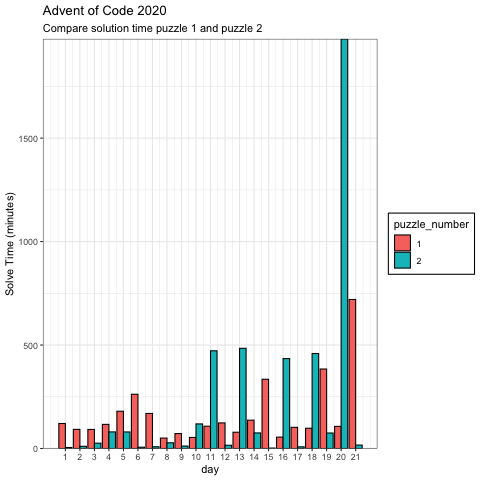
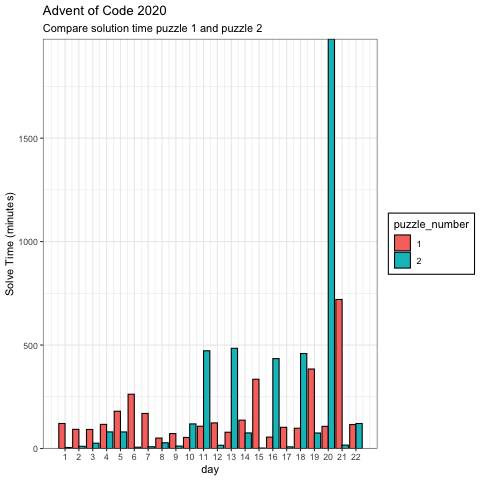
day 22

Changed region(s): [[0.125, 0.0625, 0.7812, 0.9688]]

diff --git a/day22/day_22.go b/day22/day_22.go
@@ -1,0 +1,183 @@
+package main
+
+import (
+	"bufio"
+	"fmt"
+	"os"
+	"reflect"
+	"strconv"
+	"strings"
+)
+
+type Game struct {
+	p1, p2 []int
+}
+
+// getCardLists reads lines from a file scanner and returns two lists with card
+// numbers, one for each player.
+func getCardLists(s *bufio.Scanner) ([]int, []int) {
+	player1 := true // put number in p1 or p2
+	p1 := []int{}   // save p1 deck
+	p2 := []int{}   // save p2 deck
+	for s.Scan() {
+		r := strings.Trim(s.Text(), "\n")
+
+		// Switch putting cards into p1 deck into p2 deck
+		if r == "Player 2:" {
+			player1 = false
+		}
+		// If we can convert a line to a number, we put it in a deck.
+		if n, err := strconv.Atoi(r); err == nil {
+			if player1 {
+				p1 = append(p1, n)
+			} else {
+				p2 = append(p2, n)
+			}
+		}
+	}
+
+	if err := s.Err(); err != nil {
+		panic(err)
+	}
+
+	return p1, p2
+}
+
+// calcWinningScore, given two lists, calculates the score of the winner
+func calcWinningScore(p1, p2 []int) int {
+	// Put winning list in winner
+	var winner []int
+	if len(p1) > len(p2) {
+		winner = p1
+	} else {
+		winner = p2
+	}
+
+	// Calculate winning score, scale is decreasing.
+	sum := 0
+	scale := len(winner)
+	for _, w := range winner {
+		sum += w * scale
+		scale--
+	}
+
+	return sum
+
+}
+
+func playGame(s *bufio.Scanner) int {
+	// Load card decks
+	p1Cards, p2Cards := getCardLists(s)
+
+	// play until 1 deck is empty
+	for {
+
+		// handle cases one player wins
+		if p1Cards[0] > p2Cards[0] {
+			p1Cards = append(p1Cards, p1Cards[0], p2Cards[0])
+			// remove played cards from front of the decks
+			p1Cards = p1Cards[1:]
+			p2Cards = p2Cards[1:]
+		} else {
+			p2Cards = append(p2Cards, p2Cards[0], p1Cards[0])
+			// remove played cards from front of the decks
+			p2Cards = p2Cards[1:]
+			p1Cards = p1Cards[1:]
+		}
+
+		// escape if one deck is empty
+		if len(p1Cards) == 0 || len(p2Cards) == 0 {
+			break
+		}
+	}
+
+	return calcWinningScore(p1Cards, p2Cards)
+}
+
+// gamePlayed checks in mem(ory) if a game is already played
+func gamePlayed(mem []Game, g Game) bool {
+	for _, gg := range mem {
+		if reflect.DeepEqual(gg.p1, g.p1) && reflect.DeepEqual(gg.p2, g.p2) {
+			return true
+		}
+	}
+	return false
+}
+
+// play does turns in the card game recursively.
+func play(p1, p2 []int, mem []Game) ([]int, []int, bool) {
+
+	// Check if we had this exact case already, if we have we return
+	g := Game{p1, p2} // create something to recognise in a map
+	if gamePlayed(mem, g) {
+		p1 = append(p1[1:], p1[0], p2[0])
+		return p1, p2[1:], true
+	} else {
+		mem = append(mem, g)
+	}
+
+	// Escape because one deck is empty
+	if len(p1) == 0 || len(p2) == 0 {
+		if len(p2) == 0 {
+			return p1, p2, true
+		}
+		return p1, p2, false
+	}
+
+	// start playing a normal turn
+	c1 := p1[0] // play first cards
+	c2 := p2[0]
+	p1 = p1[1:] // remove first cards from deck
+	p2 = p2[1:]
+
+	p1Win := false
+	// Check if we need a sub game or not
+	if c1 <= len(p1) && c2 <= len(p2) {
+		tmp1 := append([]int{}, p1[:c1]...)
+		tmp2 := append([]int{}, p2[:c2]...)
+		// Play a subgame, this will have its own memory, thats why we add []Game{}.
+		_, _, player1Win := play(tmp1, tmp2, []Game{})
+		if player1Win {
+			p1Win = true
+		}
+	} else {
+		// play normal turn, check who has the highest card.
+		if c1 > c2 {
+			p1Win = true
+		}
+	}
+
+	// create new decks, by giving the winner the played cards.
+	if p1Win {
+		p1 = append(p1, c1, c2)
+	} else {
+		p2 = append(p2, c2, c1)
+	}
+
+	// Play enother round
+	return play(p1, p2, mem)
+}
+
+// playRecursiveGame starts the recursive game and calculates the score of the winner.
+func playRecursiveGame(s *bufio.Scanner) int {
+	p1Cards, p2Cards := getCardLists(s)           // Load decks
+	r1, r2, _ := play(p1Cards, p2Cards, []Game{}) // play recursive game
+	return calcWinningScore(r1, r2)               // return winning score
+}
+
+func main() {
+	part2 := true
+	file, err := os.Open("data_22.txt")
+	if err != nil {
+		panic(err)
+	}
+	defer file.Close()
+	scanner := bufio.NewScanner(file)
+	if !part2 {
+		n := playGame(scanner)
+		fmt.Println("Day 22-1:", n)
+	} else {
+		n := playRecursiveGame(scanner)
+		fmt.Println("Day 22-2:", n)
+	}
+}

diff --git a/day22/day_22_test.go b/day22/day_22_test.go
@@ -1,0 +1,74 @@
+
+import (
+	"bufio"
+	"strings"
+	"testing"
+)
+
+const example1 = `Player 1:
+9
+2
+6
+3
+1
+
+Player 2:
+5
+8
+4
+7
+10
+`
+
+func createScanner(c string) *bufio.Scanner {
+	r := strings.NewReader(c)
+	return bufio.NewScanner(r)
+}
+
+func Test_playGame(t *testing.T) {
+	type args struct {
+		s *bufio.Scanner
+	}
+	tests := []struct {
+		name string
+		args args
+		want int
+	}{
+		{
+			name: "Example 1",
+			args: args{createScanner(example1)},
+			want: 306,
+		},
+	}
+	for _, tt := range tests {
+		t.Run(tt.name, func(t *testing.T) {
+			if got := playGame(tt.args.s); got != tt.want {
+				t.Errorf("playGame() = %v, want %v", got, tt.want)
+			}
+		})
+	}
+}
+
+func Test_playRecursiveGame(t *testing.T) {
+	type args struct {
+		s *bufio.Scanner
+	}
+	tests := []struct {
+		name string
+		args args
+		want int
+	}{
+		{
+			name: "Example 2",
+			args: args{createScanner(example1)},
+			want: 291,
+		},
+	}
+	for _, tt := range tests {
+		t.Run(tt.name, func(t *testing.T) {
+			if got := playRecursiveGame(tt.args.s); got != tt.want {
+				t.Errorf("playRecursiveGame() = %v, want %v", got, tt.want)
+			}
+		})
+	}
+}
